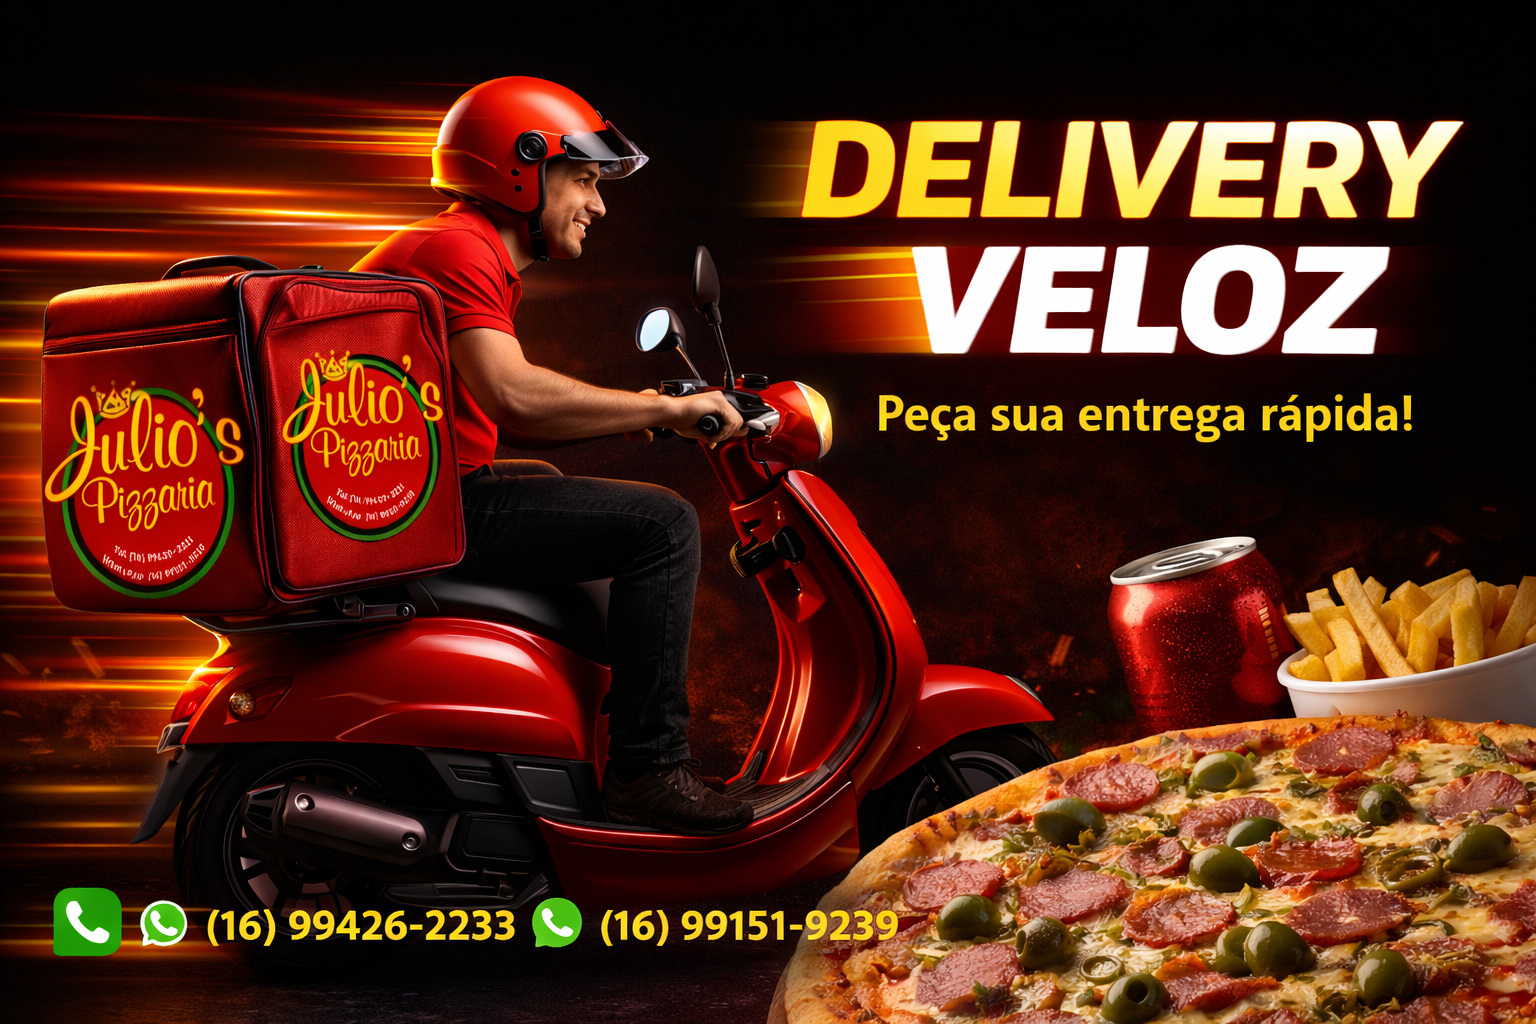
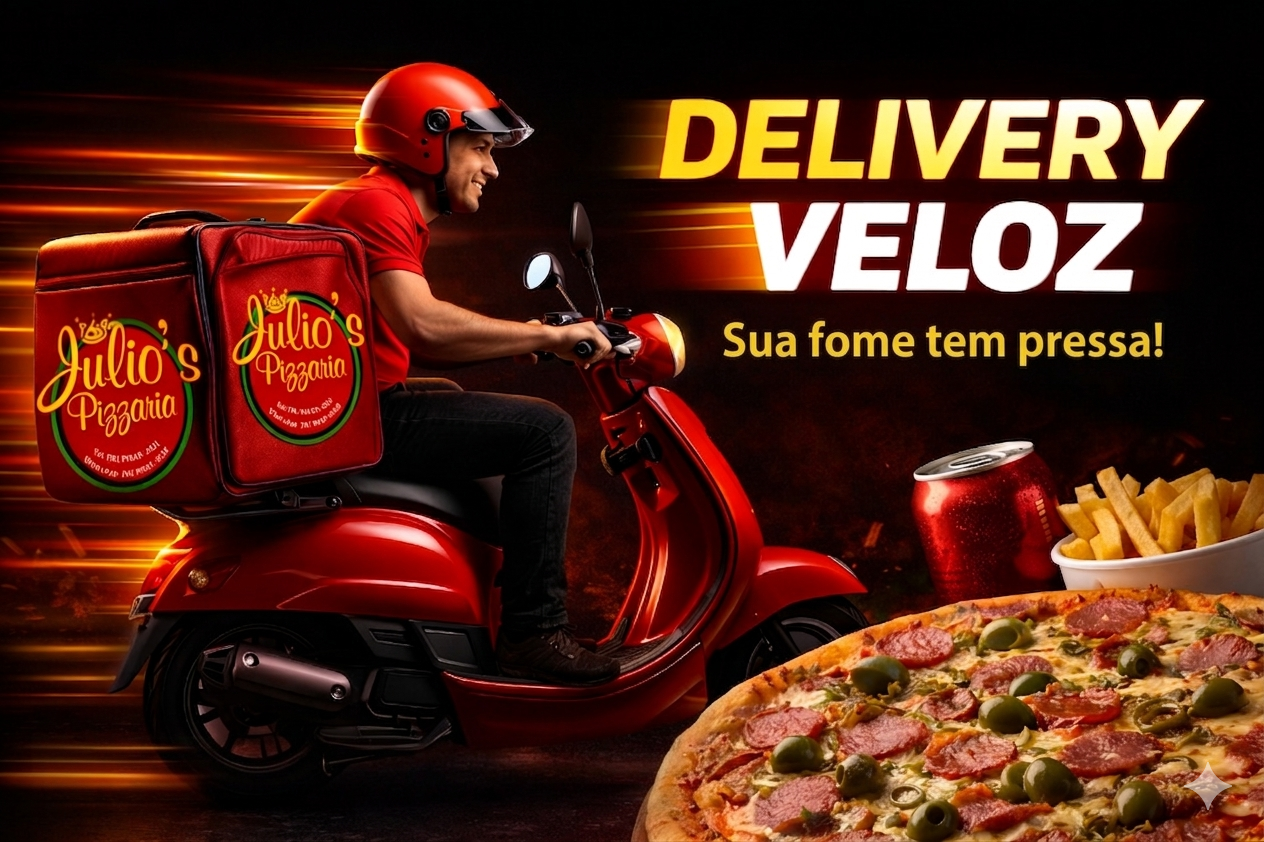
Alterando textos por imagens no carrossel

diff --git a/index.html b/index.html
@@ -202,21 +202,64 @@
     </section>
 
     <!-- AUTHORITY MARQUEE -->
-    <section class="py-8 md:py-12 bg-white/5 overflow-hidden border-y border-white/10 shadow-lg">
-      <div class="marquee-content gap-12 md:gap-24 items-center">
-        <span class="text-2xl md:text-4xl font-display italic text-white opacity-90 whitespace-nowrap uppercase tracking-tighter">PIZZAS ARTESANAIS</span>
-        <span class="text-2xl md:text-4xl font-display italic text-white opacity-90 whitespace-nowrap uppercase tracking-tighter">MACARRÃO AO VIVO</span>
-        <span class="text-2xl md:text-4xl font-display italic text-white opacity-90 whitespace-nowrap uppercase tracking-tighter">LANCHES SUCULENTOS</span>
-        <span class="text-2xl md:text-4xl font-display italic text-white opacity-90 whitespace-nowrap uppercase tracking-tighter">ESFIRRAS FOFINHAS</span>
-        <span class="text-2xl md:text-4xl font-display italic text-white opacity-90 whitespace-nowrap uppercase tracking-tighter">RODÍZIO PREMIUM</span>
-        <span class="text-2xl md:text-4xl font-display italic text-white opacity-90 whitespace-nowrap uppercase tracking-tighter">ENTREGA RÁPIDA</span>
+    <section class="py-6 md:py-8 bg-white/5 overflow-hidden border-y border-white/10 shadow-lg">
+      <div class="marquee-content gap-16 md:gap-32 items-center" style="animation-duration: 20s;">
         
-        <span class="text-2xl md:text-4xl font-display italic text-white opacity-90 whitespace-nowrap uppercase tracking-tighter">PIZZAS ARTESANAIS</span>
-        <span class="text-2xl md:text-4xl font-display italic text-white opacity-90 whitespace-nowrap uppercase tracking-tighter">MACARRÃO AO VIVO</span>
-        <span class="text-2xl md:text-4xl font-display italic text-white opacity-90 whitespace-nowrap uppercase tracking-tighter">LANCHES SUCULENTOS</span>
-        <span class="text-2xl md:text-4xl font-display italic text-white opacity-90 whitespace-nowrap uppercase tracking-tighter">ESFIRRAS FOFINHAS</span>
-        <span class="text-2xl md:text-4xl font-display italic text-white opacity-90 whitespace-nowrap uppercase tracking-tighter">RODÍZIO PREMIUM</span>
-        <span class="text-2xl md:text-4xl font-display italic text-white opacity-90 whitespace-nowrap uppercase tracking-tighter">ENTREGA RÁPIDA</span>
+        <div class="flex flex-col items-center gap-3 min-w-[120px] md:min-w-[180px]">
+          <img src="/selo-pizza.png" alt="Pizzas" class="w-16 h-16 md:w-24 md:h-24 object-contain opacity-100 hover:scale-110 transition-all duration-300">
+          <span class="text-xs md:text-sm font-bold text-white opacity-90 uppercase tracking-widest">Pizzas</span>
+        </div>
+
+        <div class="flex flex-col items-center gap-3 min-w-[120px] md:min-w-[180px]">
+          <img src="/selo-macarrao.png" alt="Massas" class="w-16 h-16 md:w-24 md:h-24 object-contain opacity-100 hover:scale-110 transition-all duration-300">
+          <span class="text-xs md:text-sm font-bold text-white opacity-90 uppercase tracking-widest">Massas</span>
+        </div>
+
+        <div class="flex flex-col items-center gap-3 min-w-[120px] md:min-w-[180px]">
+          <img src="/selo-lanche.png" alt="Lanches" class="w-16 h-16 md:w-24 md:h-24 object-contain opacity-100 hover:scale-110 transition-all duration-300">
+          <span class="text-xs md:text-sm font-bold text-white opacity-90 uppercase tracking-widest">Lanches</span>
+        </div>
+
+        <div class="flex flex-col items-center gap-3 min-w-[120px] md:min-w-[180px]">
+          <img src="/selo-esfirra.png" alt="Esfirras" class="w-16 h-16 md:w-24 md:h-24 object-contain opacity-100 hover:scale-110 transition-all duration-300">
+          <span class="text-xs md:text-sm font-bold text-white opacity-90 uppercase tracking-widest">Esfirras</span>
+        </div>
+
+        <div class="flex flex-col items-center gap-3 min-w-[120px] md:min-w-[180px]">
+          <img src="/selo-rodizio.png" alt="Rodízio" class="w-16 h-16 md:w-24 md:h-24 object-contain opacity-100 hover:scale-110 transition-all duration-300">
+          <span class="text-xs md:text-sm font-bold text-white opacity-90 uppercase tracking-widest">Rodízio</span>
+        </div>
+
+        <div class="flex flex-col items-center gap-3 min-w-[120px] md:min-w-[180px]">
+          <img src="/selo-bebida.png" alt="Bebidas" class="w-16 h-16 md:w-24 md:h-24 object-contain opacity-100 hover:scale-110 transition-all duration-300">
+          <span class="text-xs md:text-sm font-bold text-white opacity-90 uppercase tracking-widest">Bebidas</span>
+        </div>
+
+        <div class="flex flex-col items-center gap-3 min-w-[120px] md:min-w-[180px]" aria-hidden="true">
+          <img src="/selo-pizza.png" class="w-16 h-16 md:w-24 md:h-24 object-contain opacity-100">
+          <span class="text-xs md:text-sm font-bold text-white opacity-90 uppercase tracking-widest">Pizzas</span>
+        </div>
+        <div class="flex flex-col items-center gap-3 min-w-[120px] md:min-w-[180px]" aria-hidden="true">
+          <img src="/selo-macarrao.png" class="w-16 h-16 md:w-24 md:h-24 object-contain opacity-100">
+          <span class="text-xs md:text-sm font-bold text-white opacity-90 uppercase tracking-widest">Massas</span>
+        </div>
+        <div class="flex flex-col items-center gap-3 min-w-[120px] md:min-w-[180px]" aria-hidden="true">
+          <img src="/selo-lanche.png" class="w-16 h-16 md:w-24 md:h-24 object-contain opacity-100">
+          <span class="text-xs md:text-sm font-bold text-white opacity-90 uppercase tracking-widest">Lanches</span>
+        </div>
+        <div class="flex flex-col items-center gap-3 min-w-[120px] md:min-w-[180px]" aria-hidden="true">
+          <img src="/selo-esfirra.png" class="w-16 h-16 md:w-24 md:h-24 object-contain opacity-100">
+          <span class="text-xs md:text-sm font-bold text-white opacity-90 uppercase tracking-widest">Esfirras</span>
+        </div>
+        <div class="flex flex-col items-center gap-3 min-w-[120px] md:min-w-[180px]" aria-hidden="true">
+          <img src="/selo-rodizio.png" class="w-16 h-16 md:w-24 md:h-24 object-contain opacity-100">
+          <span class="text-xs md:text-sm font-bold text-white opacity-90 uppercase tracking-widest">Rodízio</span>
+        </div>
+        <div class="flex flex-col items-center gap-3 min-w-[120px] md:min-w-[180px]" aria-hidden="true">
+          <img src="/selo-bebida.png" class="w-16 h-16 md:w-24 md:h-24 object-contain opacity-100">
+          <span class="text-xs md:text-sm font-bold text-white opacity-90 uppercase tracking-widest">Bebidas</span>
+        </div>
+
       </div>
     </section>
 
@@ -228,43 +271,81 @@
       </div>
 
       <div class="grid grid-cols-1 md:grid-cols-4 grid-rows-auto md:grid-rows-2 gap-4 h-auto md:h-[600px]">
+
         <!-- Macarrão ao Vivo -->
-        <div class="md:col-span-2 md:row-span-2 glass rounded-3xl p-8 flex flex-col justify-end relative overflow-hidden bento-item group">
-          <img src="/macarraoAoVivo.png" class="absolute inset-0 w-full h-full object-cover opacity-20 group-hover:scale-110 transition-transform duration-700" referrerpolicy="no-referrer">
-          <div class="relative z-10">
-            <span class="text-[#F27D26] font-bold text-sm uppercase tracking-widest mb-2 block">Exclusividade</span>
-            <h3 class="text-3xl font-display font-bold mb-4">Macarrão ao Vivo</h3>
-            <p class="text-gray-400">Prepare sua massa do seu jeito, com ingredientes frescos escolhidos por você na hora.</p>
+        <div class="md:col-span-2 md:row-span-2 glass rounded-3xl p-8 flex flex-col justify-end relative overflow-hidden bento-item group border border-white/5 shadow-2xl">
+  
+          <img 
+            src="/macarraoAoVivo.png" 
+            alt="Macarrão ao Vivo na Júlio's Pizzaria"
+            class="absolute inset-0 w-full h-full object-cover opacity-80 group-hover:scale-110 group-hover:opacity-100 transition-all duration-1000 ease-in-out" 
+          >
+
+          <div class="absolute inset-0 bg-gradient-to-t from-black/90 via-black/40 to-transparent z-10"></div>
+
+          <div class="relative z-20 mt-20"> <span class="text-[#F27D26] font-extrabold text-sm uppercase tracking-widest mb-3 block text-gradient drop-shadow-lg">Exclusividade</span>
+            <h3 class="text-3xl md:text-4xl font-display font-bold mb-4 text-white drop-shadow-md leading-tight">Macarrão <br> ao Vivo</h3>
+            <p class="text-gray-100 font-medium leading-relaxed drop-shadow-sm">Prepare sua massa do seu jeito, com ingredientes frescos escolhidos por você na hora.</p>
           </div>
         </div>
 
         <!-- Rodízio -->
-        <div class="glass rounded-3xl p-8 flex flex-col justify-center bento-item">
-          <img src="/Rodízio de pizzas no Júlio's.png" class="absolute inset-0 w-full h-full object-cover opacity-20 group-hover:scale-110 transition-transform duration-700" referrerpolicy="no-referrer">
-          <h3 class="text-2xl font-display font-bold mb-2">Nosso Rodízio é...</h3>
-          <p class="text-gray-400">Rodízio sem limites, sabores que não acabam e uma experiência que você vai querer repetir!.</p>
+        <div class="glass rounded-3xl relative overflow-hidden bento-item group border border-white/5 shadow-2xl h-full flex items-center justify-center p-0">
+  
+          <img 
+            src="/Rodízio de pizzas no Júlio's.png" 
+            alt="Rodízio de pizzas no Júlio's Pizzaria (Informações na imagem)"
+            class="absolute inset-0 w-full h-full object-cover opacity-100 group-hover:scale-105 transition-all duration-1000 ease-in-out z-10" 
+          >
+
+          <div class="w-full h-96 md:h-full invisible"></div>
+
         </div>
 
         <!-- Variedade -->
-        <div class="md:col-span-2 glass rounded-3xl p-8 flex flex-col justify-center bento-item">
-          <img src="/variedades.png" class="absolute inset-0 w-full h-full object-cover opacity-20 group-hover:scale-110 transition-transform duration-700" referrerpolicy="no-referrer">
-          <h3 class="text-2xl font-display font-bold mb-2">Variedade Incomparável</h3>
-          <p class="text-gray-400">Pizzas, Esfirras, Lanches, Porções e muito mais para agradar toda a família.</p>
+        <div class="md:col-span-2 glass rounded-3xl p-8 flex flex-col justify-end relative overflow-hidden bento-item group border border-white/5 shadow-2xl h-full">
+  
+          <img 
+            src="/variedades1.png" 
+            alt="Variedade de produtos na Júlio's Pizzaria"
+            class="absolute inset-0 w-full h-full object-cover opacity-100 group-hover:scale-110 group-hover:opacity-100 transition-all duration-1000 ease-in-out" 
+          >
+
+          <div class="absolute inset-0 bg-gradient-to-t from-black/75 via-black/20 to-transparent z-10"></div>
+
+          <div class="relative z-20 mt-16"> <span class="text-[#F27D26] font-extrabold text-sm uppercase tracking-widest mb-3 block text-gradient drop-shadow-lg">Menu Completo</span>
+            <h3 class="text-3xl md:text-4xl font-display font-bold mb-4 text-white drop-shadow-md leading-tight">Variedade <br> Incomparável</h3>
+            <p class="text-gray-100 font-medium leading-relaxed drop-shadow-sm">Pizzas, Esfirras, Lanches, Porções e muito mais para agradar toda a família.</p>
+          </div>
         </div>
 
         <!-- Qualidade -->
-        <div class="glass rounded-3xl p-8 flex flex-col justify-center bento-item">
-          <img src="/Ingredientes.png" class="absolute inset-0 w-full h-full object-cover opacity-20 group-hover:scale-110 transition-transform duration-700" referrerpolicy="no-referrer">
-          <h3 class="text-2xl font-display font-bold mb-2">Qualidade Premium</h3>
-          <p class="text-gray-400">Apenas ingredientes selecionados e frescos.</p>
+        <div class="glass rounded-3xl p-8 flex flex-col justify-end relative overflow-hidden bento-item group border border-white/5 shadow-2xl h-full">
+  
+          <img 
+            src="/Ingredientes.png" 
+            alt="Ingredientes de alta qualidade na Júlio's Pizzaria"
+            class="absolute inset-0 w-full h-full object-cover opacity-80 group-hover:scale-110 group-hover:opacity-100 transition-all duration-1000 ease-in-out" 
+          >
+
+          <div class="absolute inset-0 bg-gradient-to-t from-black/65 via-black/15 to-transparent z-10"></div>
+
+          <div class="relative z-20 mt-16"> <span class="text-[#F27D26] font-extrabold text-sm uppercase tracking-widest mb-3 block text-gradient drop-shadow-lg">Sabor & Frescor</span>
+            <h3 class="text-3xl md:text-4xl font-display font-bold mb-4 text-white drop-shadow-md leading-tight">Qualidade <br> Premium</h3>
+            <p class="text-gray-100 font-medium leading-relaxed drop-shadow-sm">Apenas ingredientes selecionados e frescos.</p>
+          </div>
         </div>
 
         <!-- Delivery -->
-        <div class="glass rounded-3xl p-8 flex flex-col justify-center bento-item">
-          <img src="/Entrega rápida da Julio's Pizzaria.png" class="absolute inset-0 w-full h-full object-cover opacity-20 group-hover:scale-110 transition-transform duration-700" referrerpolicy="no-referrer">
-          <h3 class="text-2xl font-display font-bold mb-2">Delivery Veloz</h3>
-          <p class="text-gray-400">Sua fome tem pressa. Entregamos quentinho na sua mesa.</p>
-        </div>
+        <div class="glass rounded-3xl relative overflow-hidden bento-item group border border-white/5 shadow-2xl h-full flex items-center justify-center p-2 bg-[#120d0b]"> <img 
+          src="/Entrega rápida da Julio's Pizzaria.png" 
+          alt="Arte de Delivery Veloz da Júlio's Pizzaria (Informações na imagem)"
+          class="relative w-full h-full object-contain opacity-100 group-hover:scale-105 transition-all duration-1000 ease-in-out z-10" 
+        >
+
+        <div class="w-full h-80 md:h-full invisible"></div>
+
+      </div>
       </div>
     </section>
 
